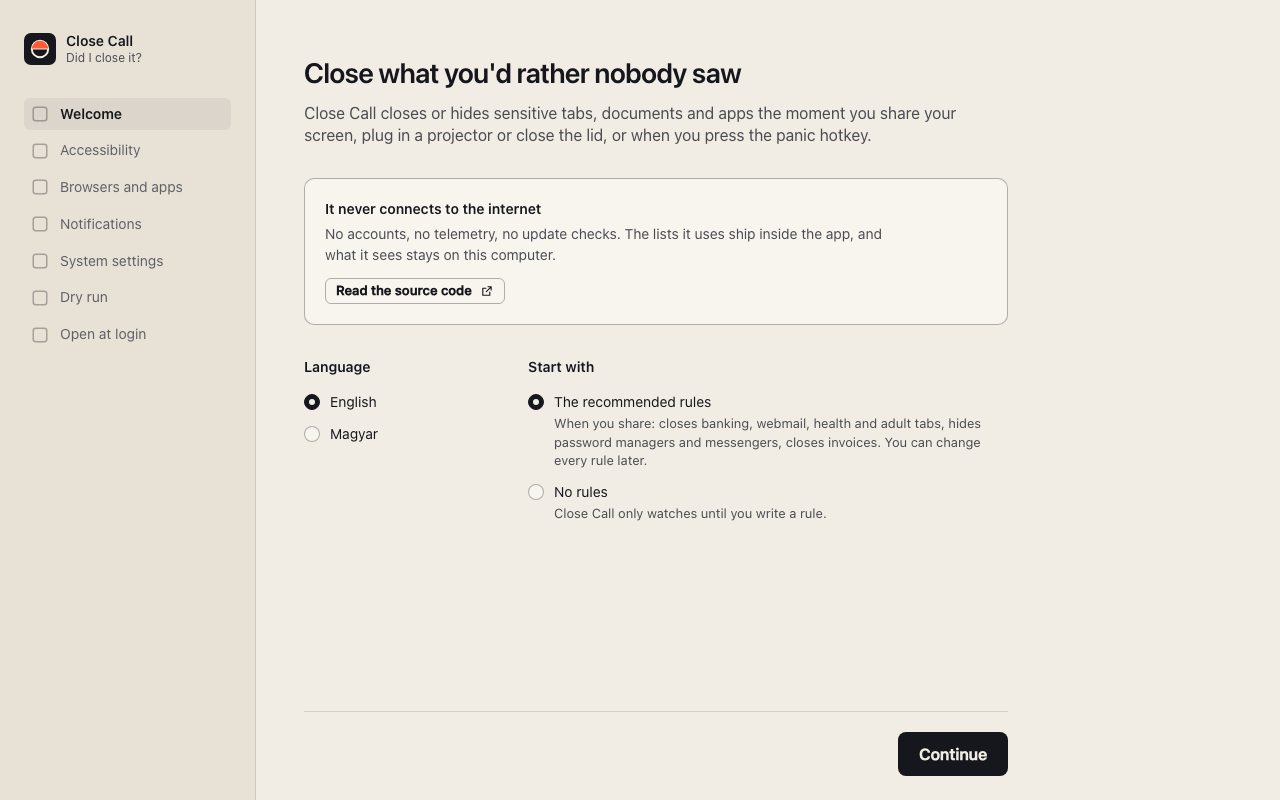
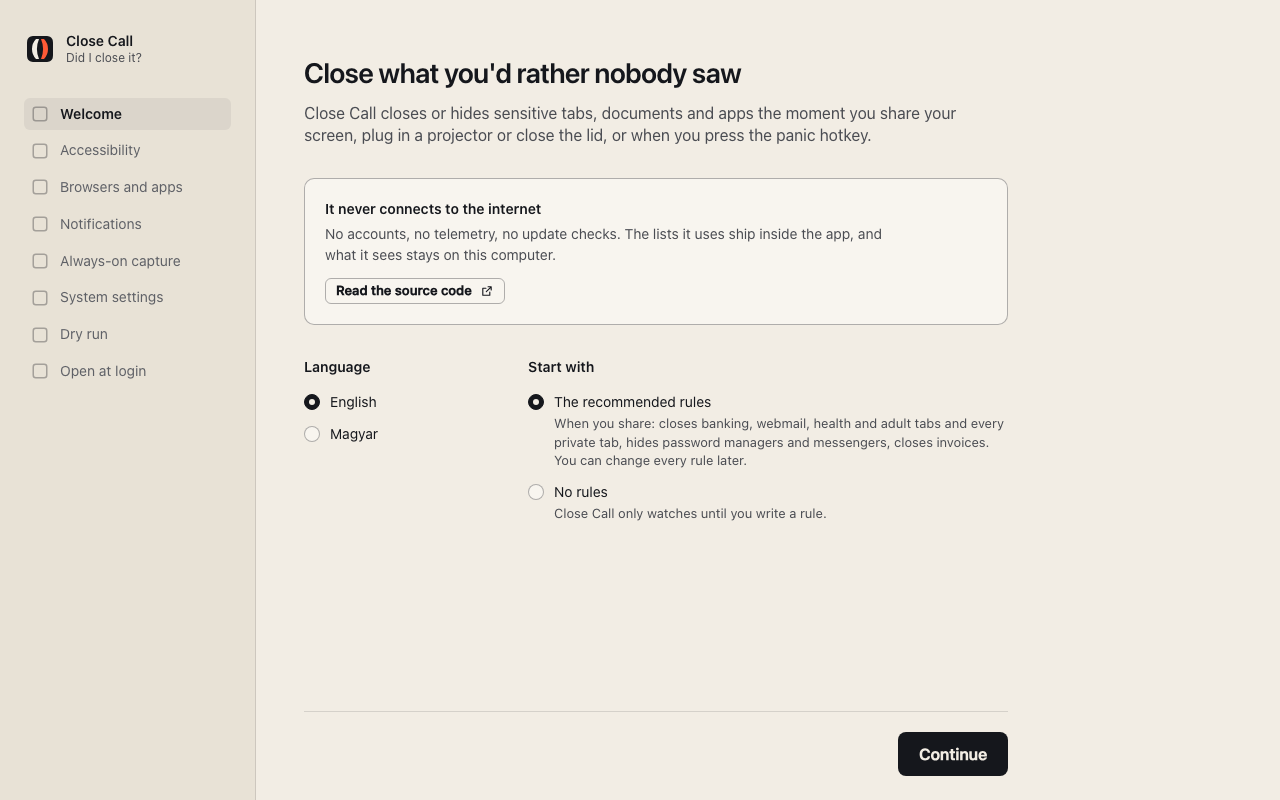
fix(ci): build the app on Windows and Linux, scope unmaintained advisories
macos_launcher only exists on macOS, so the autostart builder is configured per OS.
cargo-deny now reports unmaintained crates only when we depend on them directly; the
zbus internals it flagged come from Tauri's Linux plugins.
Docs screenshots show the new logo.

diff --git a/app/src-tauri/src/lib.rs b/app/src-tauri/src/lib.rs
@@ -12,7 +12,6 @@ use std::time::Duration;
 
 use closecall_engine::{Engine, EngineSettings};
 use tauri::{App, Manager, RunEvent, WindowEvent};
-use tauri_plugin_autostart::MacosLauncher;
 
 use crate::native::Native;
 use crate::shell::Shell;
@@ -36,11 +35,7 @@ pub fn run() -> ExitCode {
         .plugin(tauri_plugin_single_instance::init(|app, argv, _cwd| {
             shell::second_instance(app, &argv);
         }))
-        .plugin(
-            tauri_plugin_autostart::Builder::new()
-                .macos_launcher(MacosLauncher::LaunchAgent)
-                .build(),
-        )
+        .plugin(autostart())
         .plugin(tauri_plugin_global_shortcut::Builder::new().build())
         .plugin(tauri_plugin_notification::init())
         .plugin(tauri_plugin_opener::init())
@@ -169,4 +164,12 @@ fn init_tracing() {
         .with_env_filter(filter)
         .with_writer(std::io::stderr)
         .init();
+}
+
+fn autostart<R: tauri::Runtime>() -> tauri::plugin::TauriPlugin<R> {
+    let builder = tauri_plugin_autostart::Builder::new();
+    // The AppleScript launcher would add a System Events Automation prompt; the setting only exists on macOS.
+    #[cfg(target_os = "macos")]
+    let builder = builder.macos_launcher(tauri_plugin_autostart::MacosLauncher::LaunchAgent);
+    builder.build()
 }
